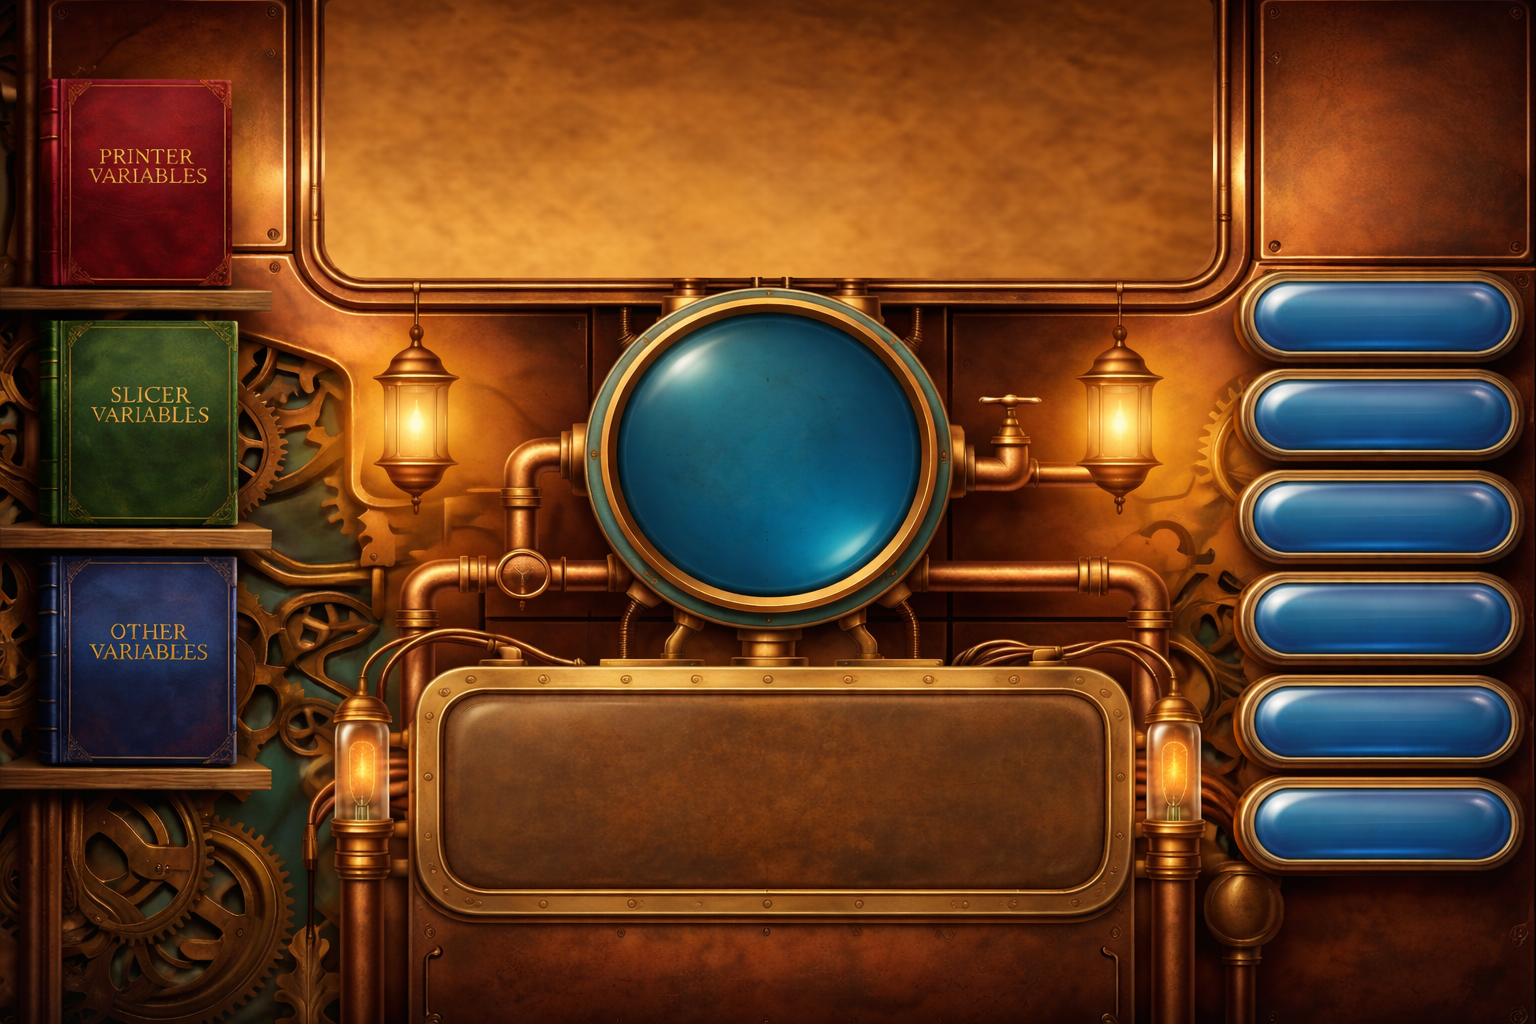
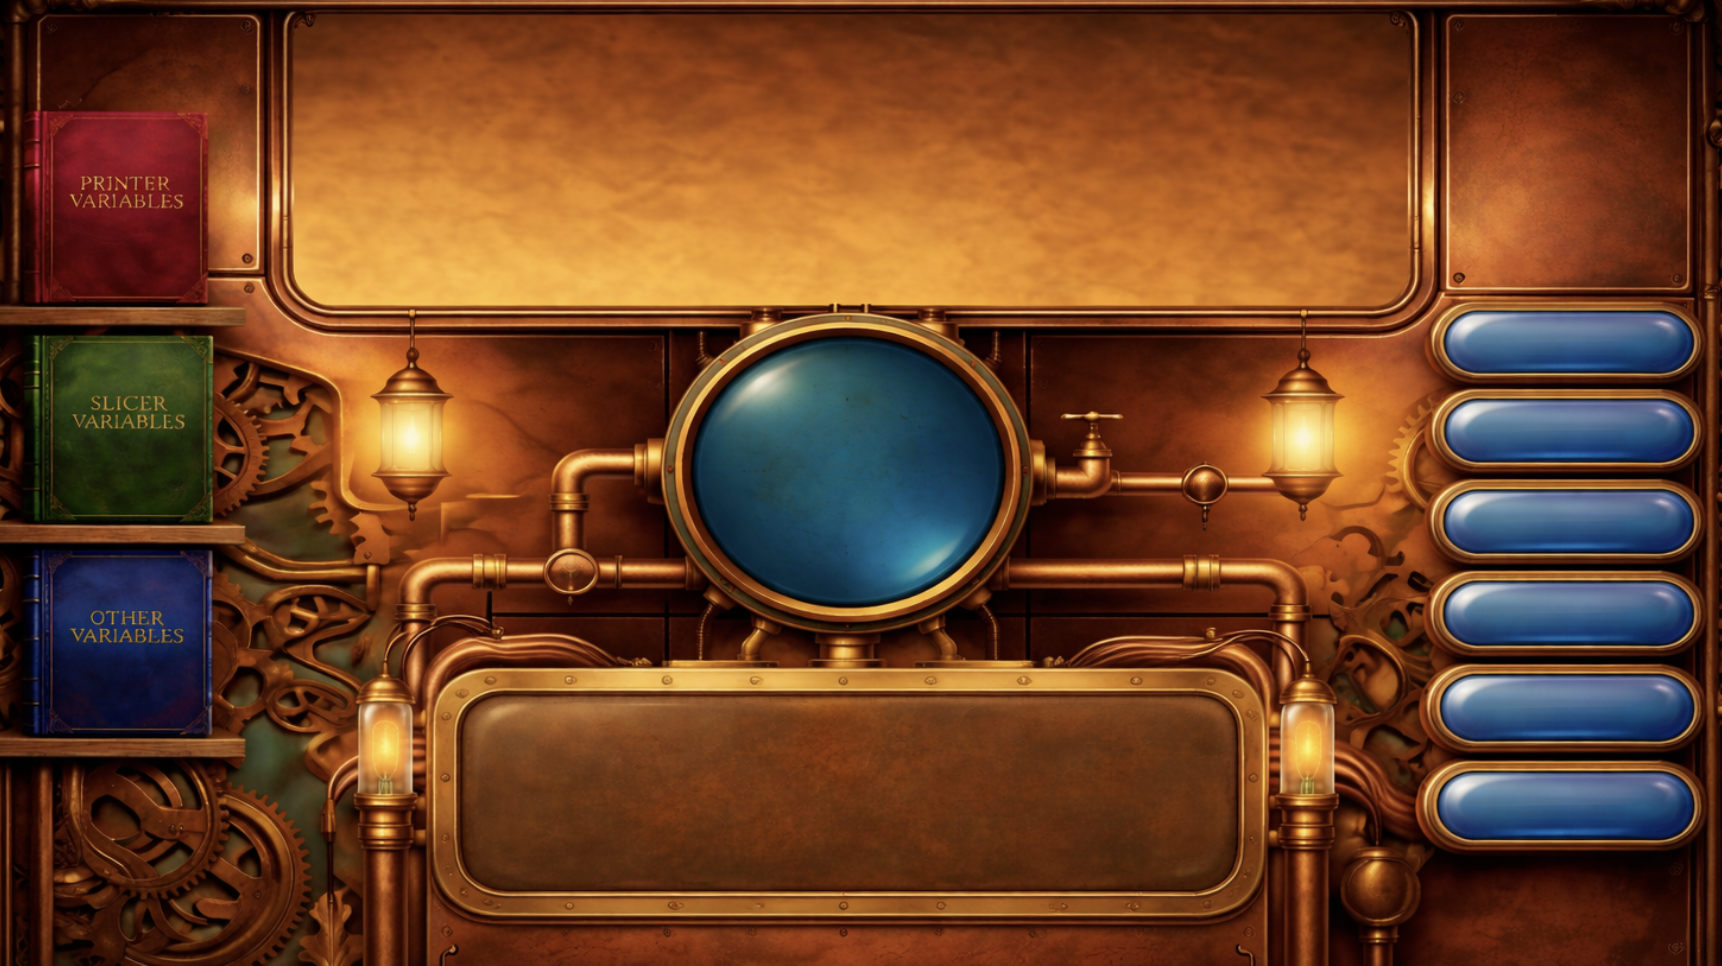
fixed

diff --git a/src/App.jsx b/src/App.jsx
@@ -113,24 +113,37 @@ export default function App() {
         {/* Top Screen Area (Quick Settings) */}
         <div className="top-screen-area">
           <div className="flex justify-between items-center mb-2">
-            <span className="text-xs font-bold uppercase tracking-widest text-white text-[20px]">Control Console</span>
+            <span className="text-xs font-bold uppercase tracking-widest text-white text-[20px] ">Control Console</span>
             <button onClick={resetDefaults} className="text-xs text-white hover:text-blue-500 transition-colors flex items-center gap-1">
               <RotateCcw size={10} /> RESET
             </button>
           </div>
-          <div className="grid grid-cols-2 gap-5 text-[15px] text-white">
-            <div className="p-1  ">
-              Temp: <span className="text">{selected.nozzle_temperature}</span>
-            </div>
-            <div className=" p-1 ">
-              SPEED: <span className="text">{selected.print_speed}</span>
-            </div>
-            <div className="p-1 ">
-              MATERIAL: <span className="text">{selected.filament_type}</span>
-            </div>
-            <div className=" p-1 ">
-               STATUS: NOMINAL
-            </div>
+          <div className="grid grid-cols-3 gap-x-5 gap-y-5 text-[15px] text-white">
+            {[
+              { id: "nozzle_temperature", label: "Temp" },
+              { id: "print_speed", label: "SPEED" },
+              { id: "filament_type", label: "MATERIAL" },
+              { id: "humidity", label: "HUMIDITY" },
+              { id: "dust", label: "DUST" },
+              { id: "supports", label: "SUPPORT" }
+            ].map(({ id, label }) => {
+              const v = varById.get(id);
+              return (
+                <div key={id} className="p-1 flex flex-col">
+                  <span className="text-[15px] opacity-90 uppercase font-bold">{label}</span>
+                  <select
+                    className="bg-transparent border-none text-white focus:outline-none cursor-pointer text-[13px] font-mono w-full"
+                    style={{ borderBottom: '1px solid rgba(255,255,255,0.2)' }}
+                    value={selected[id]}
+                    onChange={(e) => setSelected(prev => ({ ...prev, [id]: e.target.value }))}
+                  >
+                    {v?.options.map(opt => (
+                      <option key={opt.label} value={opt.label} className="text-black">{opt.label}</option>
+                    ))}
+                  </select>
+                </div>
+              );
+            })}
           </div>
         </div>
 
@@ -230,8 +243,8 @@ export default function App() {
         <div className="fm-buttons-container">
           {FAILURE_MODES.map((fm, i) => (
             <div key={fm} className="fm-btn-overlay flicker" style={{ animationDelay: `${i * 0.3}s` }}>
-              <span className="truncate">{fm}</span>
-              <span className="fm-btn-score">{perFailureMode[i].toFixed(1)}</span>
+              <span className="flex-1 leading-tight mr-2">{fm}</span>
+              <span className="fm-btn-score shrink-0">{perFailureMode[i].toFixed(1)}</span>
             </div>
           ))}
         </div>

diff --git a/src/index.css b/src/index.css
@@ -31,25 +31,19 @@ body {
   display: flex;
   justify-content: center;
   align-items: center;
-  background: radial-gradient(circle, #1a1a1a 0%, #000 100%);
-}
-
-.steampunk-interface {
-  position: relative;
-  width: 100%;
-  height: 100%;
-  max-width: 1100px;
-  background-image: url('background2.png');
-  background-size: contain;
-  background-repeat: no-repeat;
+  background-color: #3d1f0e; 
+  background-image: url('background.png');
+  background-size: cover;
   background-position: center;
 }
+
+
 
 /* Book Triggers (Left) */
 .book-trigger {
   position: absolute;
   cursor: pointer;
-  margin-left:45px;
+  margin-left:10px;
   transition: transform 0.3s ease, background 0.3s ease;
   border-radius: 5px;
 }
@@ -57,9 +51,7 @@ body {
 .book-1{
   margin-top:20px;
 }
-.book-3{
-  margin-top:-20px;
-}
+
 .book-trigger:hover {
   transform: scale(1.02) translateX(5px);
   background:transparent;
@@ -72,24 +64,24 @@ body {
 /* Top Screen Area (Quick Settings) */
 .top-screen-area {
   position: absolute;
-  top: 1%;
+  top:1%;
   left: 21%;
   width: 57%;
-  height: 23%;
-  padding: 20px;
+  height: 30%;
+  padding: 20px 20px 10px 20px;
   overflow-y: auto;
   color: #3d2b1f;
   font-family: var(--font-mono);
-  background: rgba(0, 0, 0, 0.05);
+
 }
 
 /* Central Dial Area */
 .central-dial-area {
   position: absolute;
-  top: 30%;
-  left: 40%;
+  top: 32%;
+  left: 39.3%;
   width: 18.4%;
-  height: 30%;
+  height: 32%;
   display: flex;
   flex-direction: column;
   justify-content: center;
@@ -109,20 +101,19 @@ body {
   font-size: 10px;
   text-transform: uppercase;
   letter-spacing: 1px;
-  margin-top: -40px;
-  margin-left: 14px;
-
+  margin-top: -45px;
+  margin-left: 20px;
   color: white;
 }
 
 /* Bottom Log Area */
 .bottom-log-area {
   position: absolute;
-  top: 70.5%;
+  top: 76%;
   left: 28.5%;
   width: 46%;
   height: 24.5%;
-  padding: 20px 30px;
+  padding: 20px 50px 20px 30px;
   overflow-y: auto;
   color: #2a1b0e;
   font-family: var(--font-serif);
@@ -132,9 +123,9 @@ body {
 /* Failure Mode Buttons (Right) */
 .fm-buttons-container {
   position: absolute;
-  top: 27%;
+  top: 28.9%;
   right: 2%;
-  width: 15.5%;
+  width: 13.5%;
   height: 68%;
   display: flex;
   flex-direction: column;
@@ -142,16 +133,16 @@ body {
 }
 
 .fm-btn-overlay {
-  height: 15.3%;
+  height: 16%;
   display: flex;
   align-items: center;
   justify-content: space-between;
-  padding: 0 15px;
+  padding: 0 12px;
   color: #fff;
   font-family: var(--font-mono);
-  font-size: 0.7rem;
+  font-size: 0.70rem;
   text-shadow: 0 1px 2px rgba(0,0,0,0.8);
-
+  line-height: 1.1;
 }
 
 .fm-btn-score {
@@ -196,10 +187,10 @@ body {
 
 .form-label {
   display: block;
-  font-size: 14px;
+  font-size: 15px;
   font-weight: bold;
   margin-bottom: 5px;
-  text-transform: uppercase;
+
 }
 
 .form-select {
